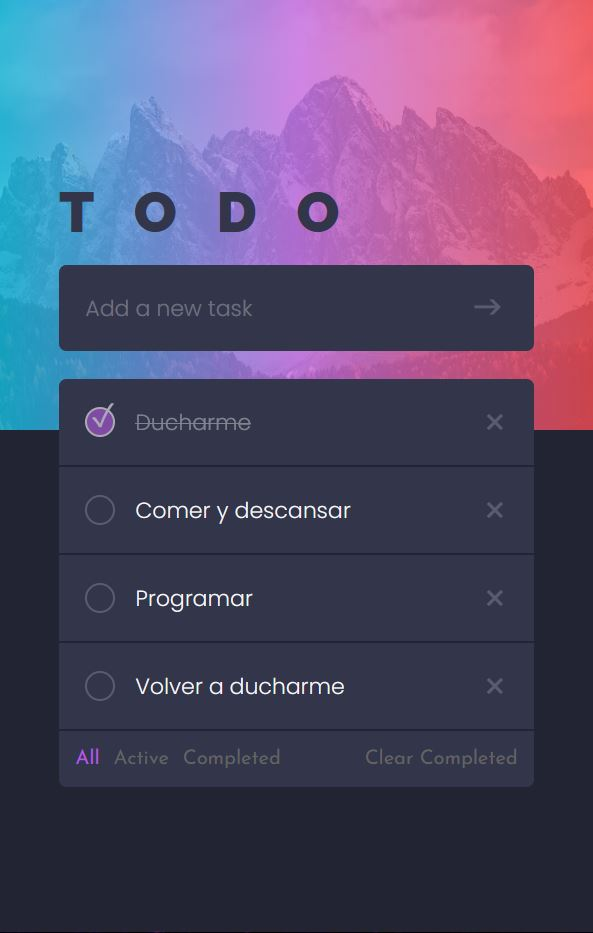
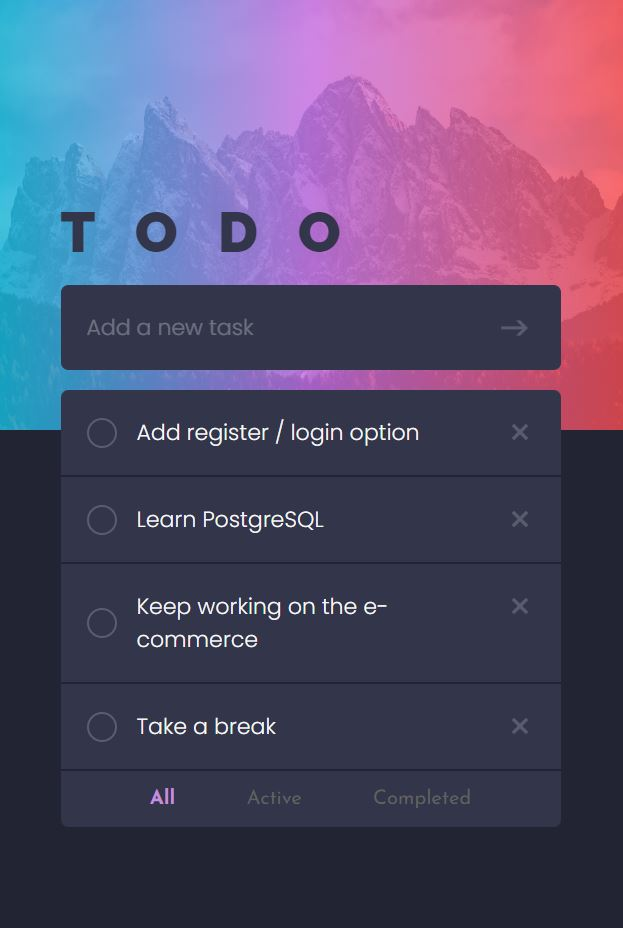
Drop "clear completed"
* Improve categories code
* Improve styling
* Update screenshots

diff --git a/frontend/src/context/TaskContext.tsx b/frontend/src/context/TaskContext.tsx
@@ -10,7 +10,6 @@ export const TaskContext = createContext<TaskContextType | undefined>(
 export const TaskProvider = ({ children }: PropsWithChildren) => {
   const [todoList, setTodoList] = useState<TaskType[]>([]);
   const [newTask, setNewTask] = useState<string>("");
-  const [category, setCategory] = useState<string>("all");
 
   // prevent default form submit
   const handleOnSubmit = (e: React.FormEvent<HTMLFormElement>) => {
@@ -97,29 +96,19 @@ export const TaskProvider = ({ children }: PropsWithChildren) => {
   };
 
   // Filter tasks by category
+  const [category, setCategory] = useState<string>("all");
+
   const filteredTodoList = todoList.filter((task) => {
-    if (category === "active") {
-      return !task.completed;
-    }
-    if (category === "completed") {
-      return task.completed;
-    }
+    if (category === "active") return !task.completed;
+    if (category === "completed") return task.completed;
     return task;
   });
+
+  if (category === "completed" && filteredTodoList.length === 0) setCategory("all")
 
   // disable category button if there's no any task in that category
   const noActiveTasks = todoList.some((task) => !task.completed);
   const noCompletedTasks = todoList.some((task) => task.completed);
-
-  // clear all the completed tasks
-  const deleteCompleted = async () => {
-    try {
-      await axios.delete(`${API_URL}/tasks`);
-      setTodoList(filteredTodoList.filter((task) => !task.completed));
-    } catch (error) {
-      console.error(error);
-    }
-  };
 
   return (
     <TaskContext.Provider
@@ -141,7 +130,6 @@ export const TaskProvider = ({ children }: PropsWithChildren) => {
         category,
         setCategory,
         filteredTodoList,
-        deleteCompleted,
         noActiveTasks,
         noCompletedTasks,
       }}

diff --git a/frontend/src/components/TaskFooter.tsx b/frontend/src/components/TaskFooter.tsx
@@ -6,7 +6,6 @@ export const TaskFooter = () => {
   const {
     category,
     setCategory,
-    deleteCompleted,
     noActiveTasks,
     noCompletedTasks,
   } = useTaskContext();
@@ -23,7 +22,7 @@ export const TaskFooter = () => {
         <li
           onClick={() => setCategory("active")}
           className={category === "active" ? "active" : ""}
-          id={!noActiveTasks ? "disable" : ""}
+          id={!noActiveTasks ? "disabled" : ""}
         >
           Active
         </li>
@@ -35,13 +34,6 @@ export const TaskFooter = () => {
           Completed
         </li>
       </ul>
-      <p
-        className="clear"
-        onClick={deleteCompleted}
-        id={!noCompletedTasks ? "disabled" : ""}
-      >
-        Clear Completed
-      </p>
     </footer>
   );
 };

diff --git a/frontend/src/css/footer.css b/frontend/src/css/footer.css
@@ -4,10 +4,8 @@ FOOTER
 =========
 */
 .footer {
-  display: flex;
-  padding: .8rem;
+  padding: .9rem;
   font-size: 1em;
-  justify-content: space-between;
   border-radius: 0 0 6px 6px;
   font-family: Josefin;
   font-weight: 400;
@@ -15,7 +13,7 @@ FOOTER
 
 .categories {
   display: flex;
-  gap: .7rem;
+  justify-content: space-evenly;
 }
 
 .categories > li {
@@ -31,16 +29,6 @@ FOOTER
 .categories > li.active {
   color: var(--accent-bg);
   font-weight: 900;
-}
-
-.clear {
-  cursor: pointer;
-  transition: .3s;
-}
-
-.clear:hover {
-  color: var(--accent-bg);
-  cursor: pointer;
 }
 
 #disabled {

diff --git a/backend/src/controllers/todo_controller.ts b/backend/src/controllers/todo_controller.ts
@@ -75,13 +75,3 @@ export const deleteTask = async (req: Request, res: Response) => {
     res.json({ message: "Failed to delete task", error });
   }
 };
-
-// delete all
-export const deleteCompletedTask = async (req: Request, res: Response) => {
-  try {
-    await Task.deleteMany({ completed: true });
-    res.json({ message: "All completed tasks deleted" });
-  } catch (error: any) {
-    res.json({ message: "Failed to delete tasks", error });
-  }
-};

diff --git a/backend/src/routes/todo_route.ts b/backend/src/routes/todo_route.ts
@@ -6,7 +6,6 @@ import {
   completedTask,
   updateTask,
   deleteTask,
-  deleteCompletedTask,
 } from "../controllers/todo_controller";
 
 const router = Router();
@@ -17,6 +16,5 @@ router.post("/tasks", addTask);
 router.put("/tasks/:id", completedTask);
 router.put("/tasks/:id/updated", updateTask);
 router.delete("/tasks/:id", deleteTask);
-router.delete("/tasks", deleteCompletedTask);
 
 export default router;

diff --git a/frontend/src/types/types.ts b/frontend/src/types/types.ts
@@ -26,7 +26,6 @@ export interface TaskContextType {
   category: string;
   setCategory: (category: string) => void;
   filteredTodoList: TaskType[];
-  deleteCompleted: () => void;
   noActiveTasks: boolean;
   noCompletedTasks: boolean;
 }

diff --git a/README.md b/README.md
@@ -7,7 +7,6 @@
 - Edit existing tasks (double click) (click outside to save)
 - Delete tasks
 - Browse all, active, completed tasks
-- Delete all completed tasks
 - Automatic Light / Dark mode
 
 # Screenshots
@@ -18,9 +17,6 @@
 ### mobile
 <img src="./screenshots/dark_mobile.jpg">
 <img src="./screenshots/light_mobile.jpg">
-
-## Issues
-- If delete all completed tasks from completed tab, it will show the empty list text till page is reloaded
 
 ### Thanks
 - Design from: [Frontend Mentor](https://www.frontendmentor.io/challenges/todo-app-Su1_KokOW)
